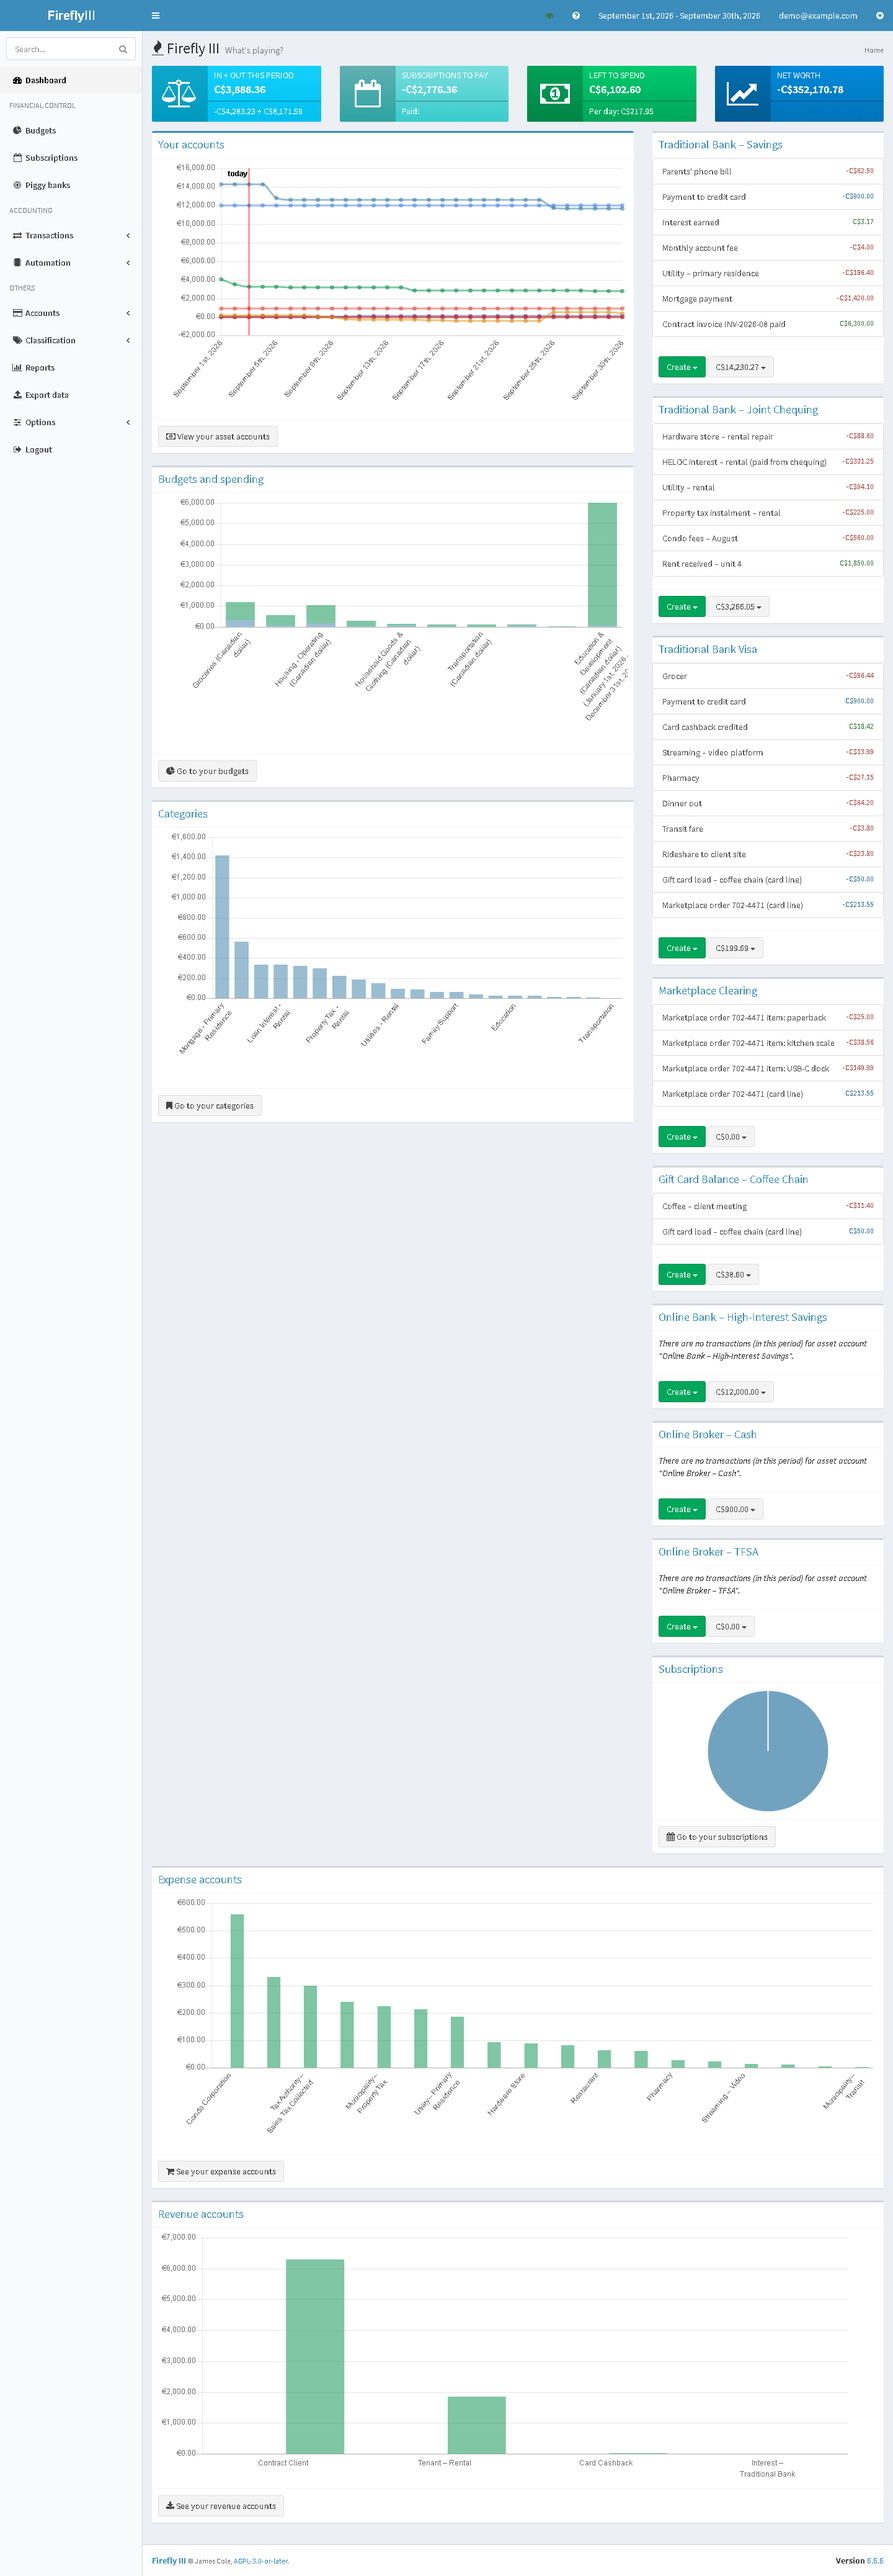
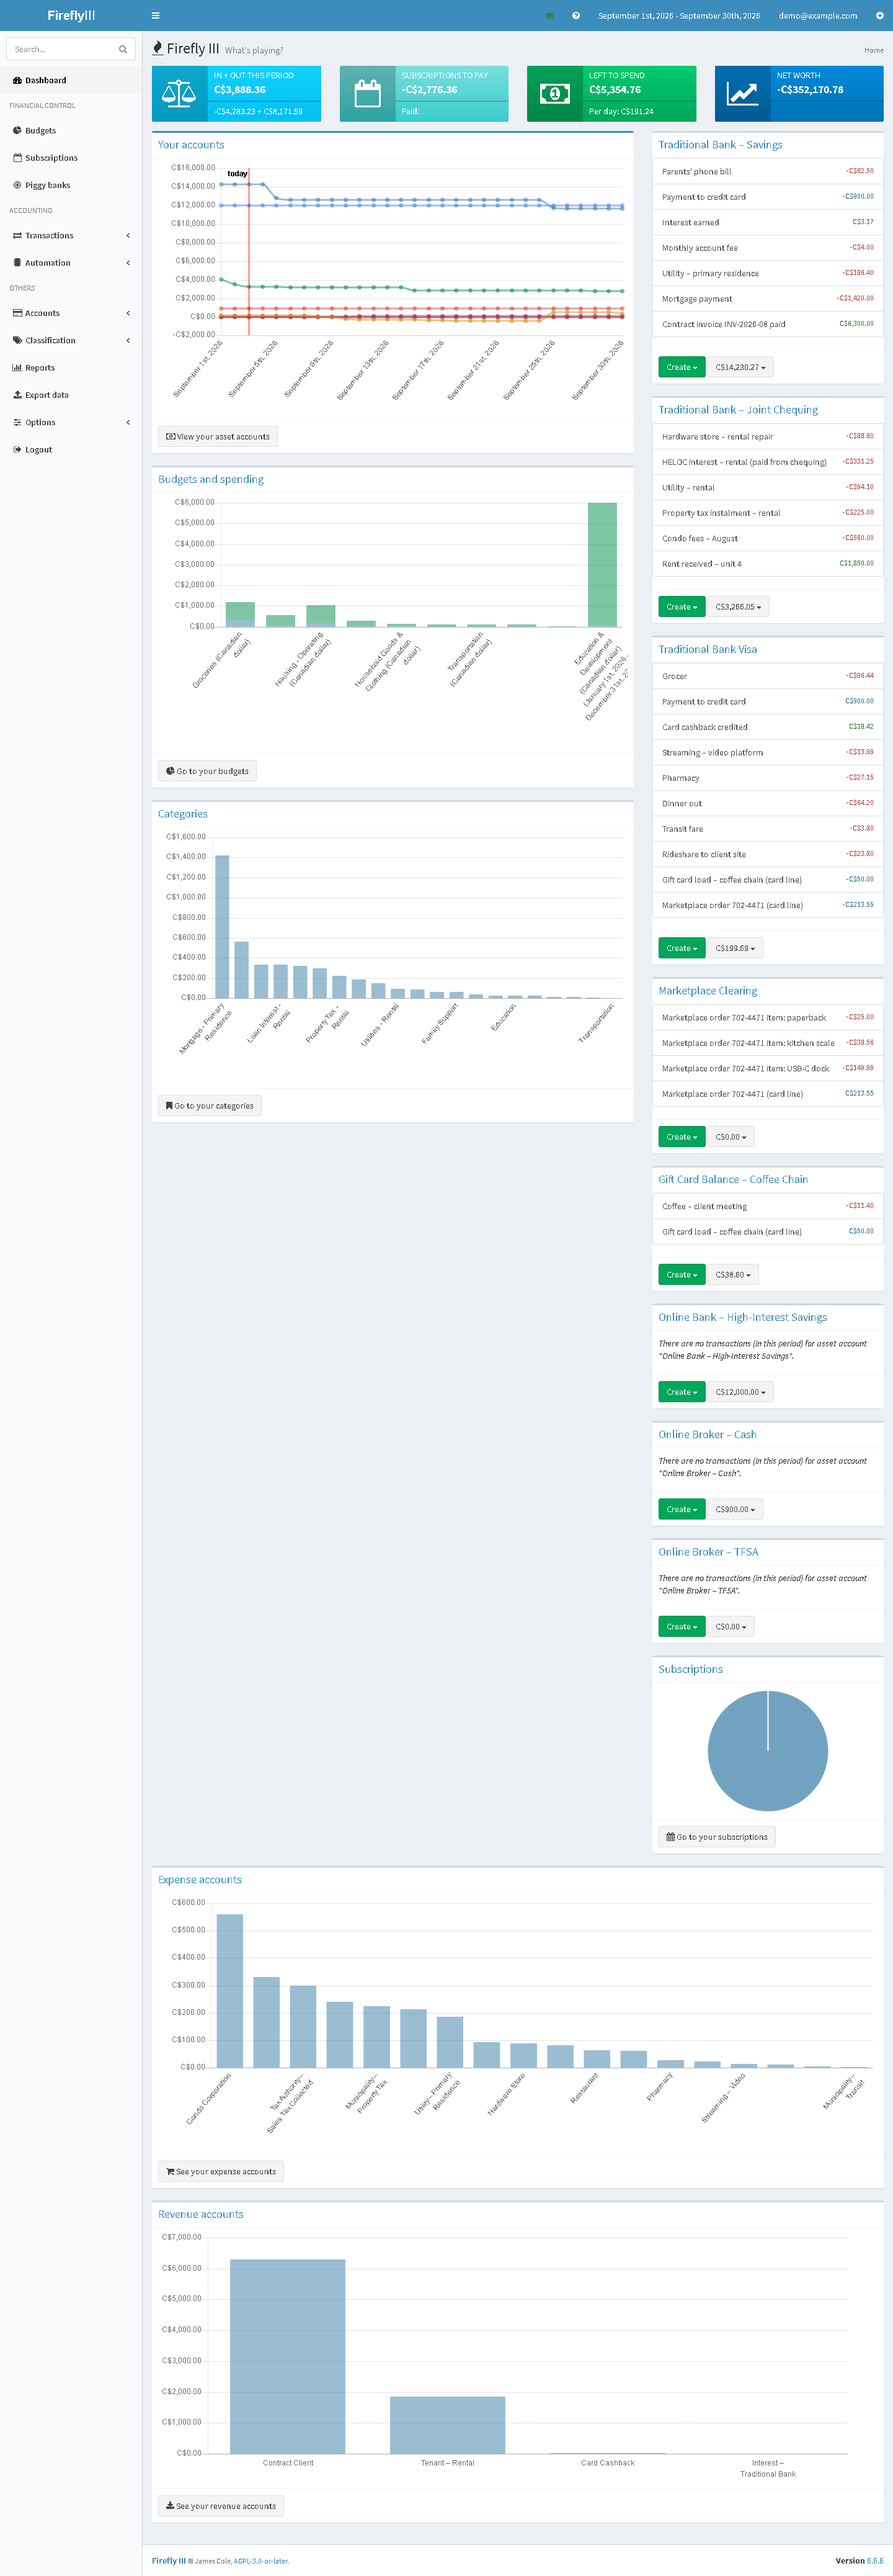
Screenshots: CAD axes after the demo user's locale change, rendered monthly report, profile page dropped

Changed region(s): [[0.2188, 0.746, 0.7188, 0.8082], [0.25, 0.8704, 0.4062, 0.9636], [0.4375, 0.9325, 0.5625, 0.9636]]

diff --git a/README.md b/README.md
@@ -171,7 +171,7 @@ The captures below come from a **demo user on the reference install, seeded with
 | [Asset accounts](docs/screenshots/02-asset-accounts.png) — bank, card, clearing, gift-card wallet, broker mirrors, by role | [Subscriptions](docs/screenshots/07-subscriptions.png) — 17 expectations in 7 groups, with bands, next match and per-group monthly cost |
 | [Liabilities](docs/screenshots/03-liabilities.png) — mortgage, two HELOCs, sales tax collected, income tax payable | [Categories](docs/screenshots/08-categories.png) and [Tags](docs/screenshots/09-tags.png) |
 | [Expense payees](docs/screenshots/04-expense-accounts.png) and [Revenue payees](docs/screenshots/05-revenue-accounts.png) | [Withdrawals](docs/screenshots/10-withdrawals.png) — both HELOC interest legs, the marketplace clearing itemisation, the gift-card spend | 
-| [Transfers](docs/screenshots/11-transfers.png) — card payment, clearing and wallet loads | [Reports](docs/screenshots/13-reports.png), [Rules](docs/screenshots/12-rules.png), [Profile](docs/screenshots/14-profile.png) |
+| [Transfers](docs/screenshots/11-transfers.png) — card payment, clearing and wallet loads | [Default financial report](docs/screenshots/13-reports.png) for the month — balances, income vs expenses, budgets, categories; and [Rules](docs/screenshots/12-rules.png) |
 
 Seed your own demo user the same way (a second Firefly user, its own Personal Access Token; the script refuses a user that already has transactions):
 
